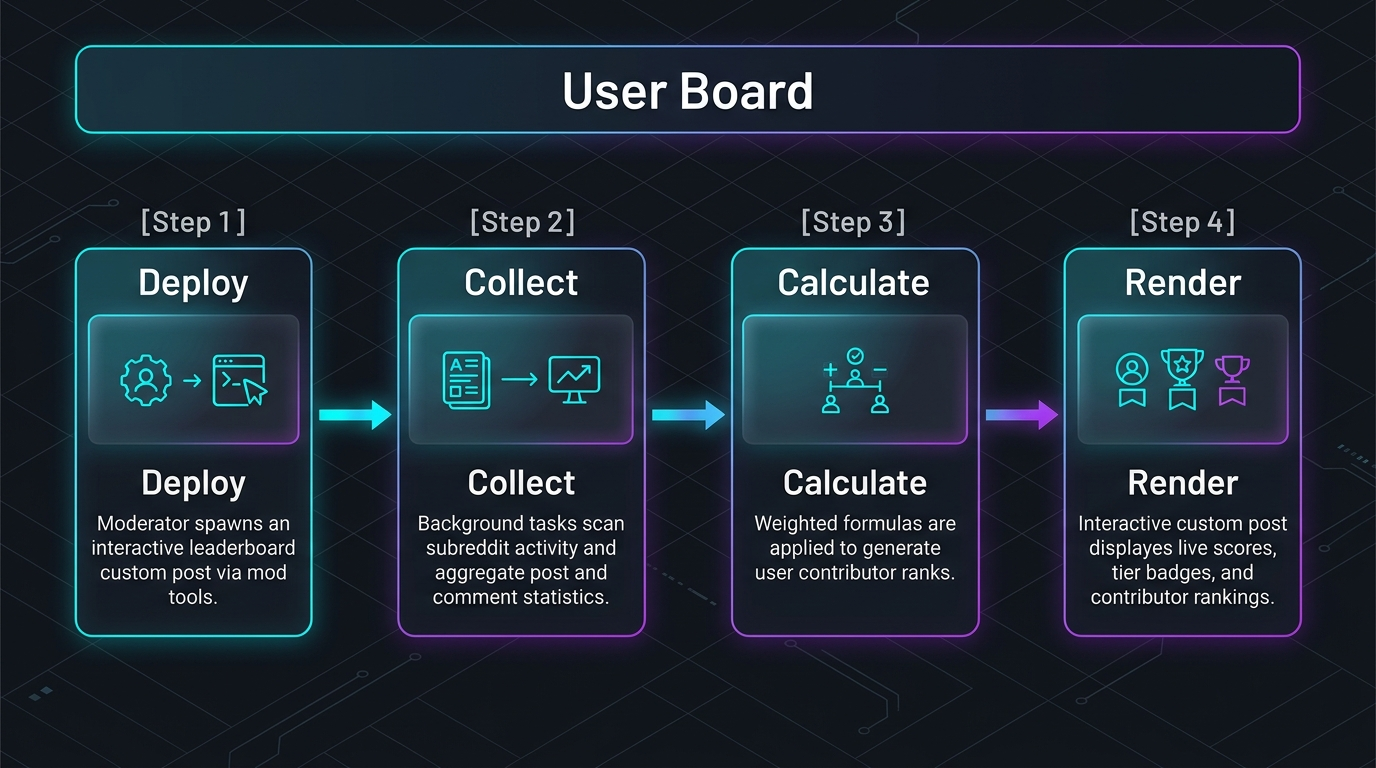
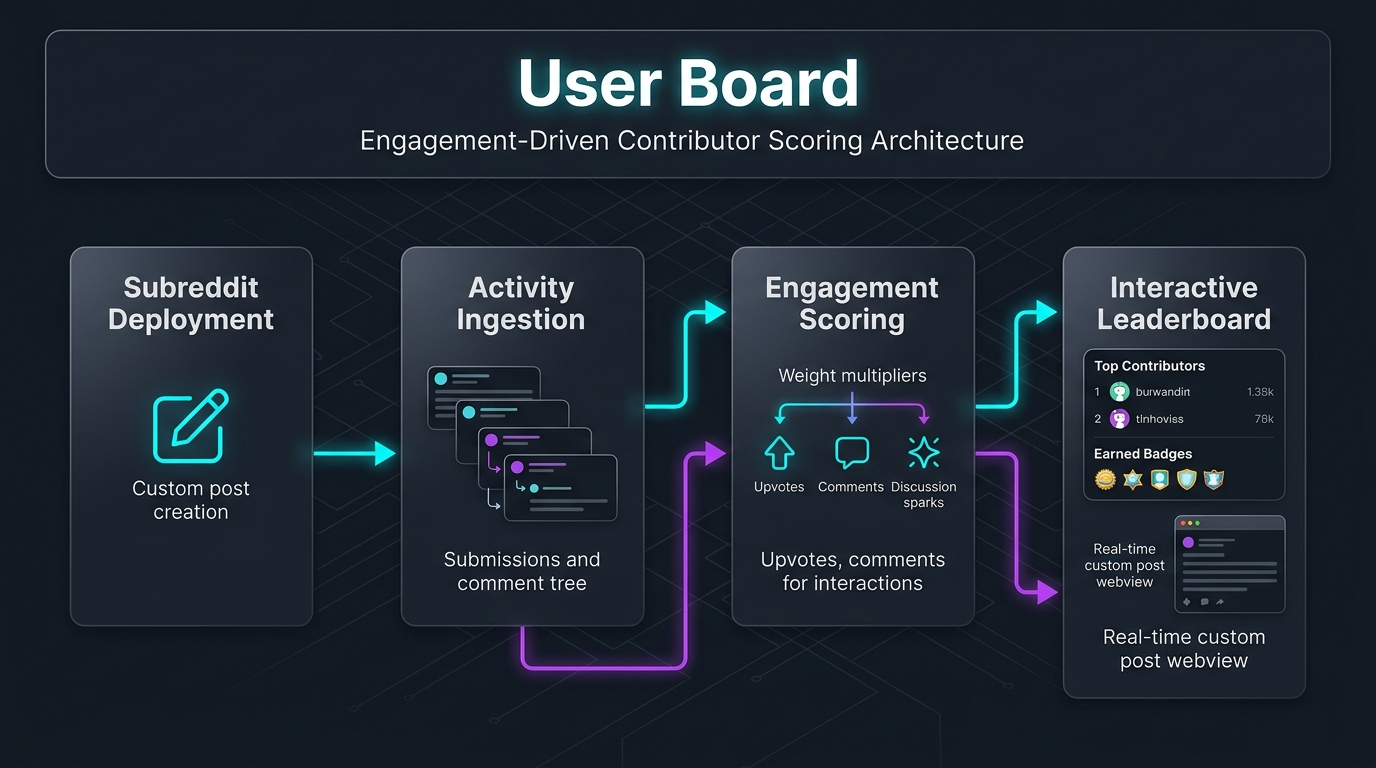
chore: update assets for user-board v0.0.44

Changed region(s): [[0.0312, 0.25, 0.9688, 0.9062], [0.0312, 0.0312, 0.9375, 0.2188], [0.9375, 0.0625, 0.9688, 0.1562]]

diff --git a/user-board/readme.html b/user-board/readme.html
@@ -1,14 +1,16 @@
 <blockquote><p><strong>User Guide &amp; Overview</strong> | <a href="https://www.reddit.com/r/grantdb/wiki/index/all-apps/user-board">View Deep Technical Reference &amp; Settings Spec</a></p></blockquote>
 <h1>User Board</h1>
-<blockquote><p><strong>Gamify community engagement and showcase your top contributors in a live leaderboard.</strong></p></blockquote>
-<p>User Board recognizes and rewards your most valuable community members. Calculating participation scores based on custom post and comment weights, it renders a visual, interactive leaderboard post directly inside your subreddit to drive constructive discussion.</p>
+<blockquote><p><strong>Gamify community engagement and showcase your top contributors in a live, quality-driven leaderboard.</strong></p></blockquote>
+<p>User Board recognizes and rewards your most valuable community members. Calculating participation scores based on community reception (post upvotes, comment upvotes, and discussion threads) rather than raw post volume, it renders a visual, interactive leaderboard post directly inside your subreddit to encourage constructive participation.</p>
 <p>---</p>
 <h2>At a Glance</h2>
 <ul>
 <li><strong>Interactive visual leaderboard</strong>: Display top community contributors in a rich, responsive custom post.</li>
-<li><strong>Customizable scoring weights</strong>: Balance points awarded for posts, comments, upvotes, and discussion engagement.</li>
+<li><strong>Engagement-first scoring</strong>: Rewards positive community reception (upvotes on posts & comments) and discussion depth rather than spammy post volume.</li>
+<li><strong>Full comment ingestion</strong>: Evaluates top commenters, comment upvote scores, and reply threads alongside post authors.</li>
+<li><strong>Customizable scoring weights</strong>: Fine-tune independent multipliers for post upvotes, comment upvotes, discussion sparked, and baseline counts.</li>
 <li><strong>Automated rank calculations</strong>: Scheduled background jobs keep rankings fresh without manual tallying.</li>
-<li><strong>Moderator customization console</strong>: Tune score formulas, tier cutoffs, and layout styles from the inline <strong>⚙ Settings</strong> console.</li>
+<li><strong>Moderator customization console</strong>: Tune score formulas, tier cutoffs, and timeframes from the inline <strong>⚙ Settings</strong> console.</li>
 <li><strong>Mobile-friendly custom post</strong>: Fast, client-side rendered experience that loads smoothly on all platforms.</li>
 </ul>
 <p>---</p>
@@ -16,7 +18,9 @@
 <p>---</p>
 <h2>Built for Vibrant Community Growth</h2>
 <ul>
-<li><strong>Nuanced Contribution Scoring</strong>: Configure independent point multipliers for submission upvotes, comment volume, and discussion activity.</li>
+<li><strong>Nuanced Engagement Scoring</strong>: Configure independent point multipliers for post upvotes (3x default), comment upvotes (2x default), comments on posts (2x default), and thread replies (1x default).</li>
+<li><strong>Quality-First Anti-Spam Design</strong>: Downvoted submissions receive zero upvote points, preventing spammers from gaming the board through volume alone.</li>
+<li><strong>Rich Contributor Badges</strong>: Classifies contributors into recognizable community roles (*Top Poster*, *Commenter*, *Engager*, *Consistent*, and *Rising Star*).</li>
 <li><strong>Interactive React Custom Post</strong>: Features rich leaderboard views with user rank badges, avatars, and historical score milestones.</li>
 <li><strong>Automated Rank Refreshes</strong>: Scheduled background workers re-calculate scores and update cached rankings automatically.</li>
 <li><strong>Zero-Friction Board Generation</strong>: Deploy your leaderboard post with one click using <strong>Create Subreddit User Board</strong> in Subreddit Mod Tools.</li>
@@ -28,9 +32,9 @@
 <p><a href="https://raw.githubusercontent.com/grantdb/reddit-app-legal/main/assets/flowcharts/user-board-flowchart.png">Logic Flowchart</a></p>
 <h3>Your Four-Step Workflow</h3>
 <p>1. <strong>Deploy</strong>: A moderator selects <strong>Create Subreddit User Board</strong> from Subreddit Mod Tools to spawn the interactive hub.</p>
-<p>2. <strong>Collect</strong>: Background tasks scan recent subreddit activity, aggregating post scores and comment counts.</p>
-<p>3. <strong>Calculate</strong>: The engine evaluates activity stats against your custom point weights to generate contributor ranks.</p>
-<p>4. <strong>Render</strong>: The pinned leaderboard post updates its interactive UI to display the latest top community members.</p>
+<p>2. <strong>Collect</strong>: Background tasks scan recent subreddit submissions and comment threads, indexing upvotes and reply depth.</p>
+<p>3. <strong>Calculate</strong>: The engine evaluates activity stats against your custom point weights to generate contributor ranks based on positive reception.</p>
+<p>4. <strong>Render</strong>: The pinned leaderboard post updates its interactive UI to display the latest top community contributors.</p>
 <p>---</p>
 <h2>Quick Setup</h2>
 <p>1. <strong>Install</strong>: Add <strong>User Board</strong> to your subreddit through the Reddit App Directory.</p>

diff --git a/user-board/wiki.html b/user-board/wiki.html
@@ -1,7 +1,7 @@
 <h1>User Board</h1>
 
 <p>Category: Utility<br>
-Version: v0.0.43<br>
+Version: v0.0.44<br>
 Visibility: Unlisted<br>
 Summary: Interactive subreddit contributor leaderboard and gamification dashboard.</p>
 
@@ -58,12 +58,12 @@ Summary: Interactive subreddit contributor leaderboard and gamification dashboar
 </ul>
 
 <h2>Version History</h2>
+<p>0.0.44 — 2026-10-02<br>
+Standard fleet synchronization and maintenance.</p>
+<p>0.0.44 — 2026-10-02<br>
+Feature: Completely overhauled scoring engine to reward positive community engagement and quality over raw post spam.; Feature: Added comment tree ingestion (`reddit.getComments`) to index commenters, comment upvote scores, and discussion thread depth (`repliesReceived`).; Feature: Rewrote scoring formula to reward post upvotes (3x), comment upvotes (2x), discussion spark (2x), and thread replies (1x) over baseline volume.; Feature: Added contributor classification badges: Top Poster, Commenter, Engager, Consistent, and Rising Star.; Feature: Expanded Moderator Console settings with granular Quality & Reception weights and quick "Defaults" restore.; UI: Added post count, comment count, and total upvotes received columns to the interactive leaderboard table.; Compatibility: Maintained full backward compatibility with legacy snapshots, fallback aliases, and default settings merging.</p>
 <p>0.0.43 — 2026-09-29<br>
 Standard fleet synchronization and maintenance.</p>
-<p>0.0.43 — 2026-09-28<br>
-Fix: Immediately recomputed active snapshot and cleared stale timeframe slice caches upon settings save so feed card reflects new timeframe window without delay.; Fix: Dynamically synchronized client active timeframe state and filter tab buttons with configured `timeframeDays`.; Fix: Resolved base snapshot fallback in `GET /api/board/snapshot` to serve matching timeframe dynamically instead of hardcoded 30-day assumption.</p>
-<p>0.0.42 — 2026-09-28<br>
-Fix: Fixed moderator verification check by querying `reddit.getModerators({ subredditName })` without unsupported username filtering parameter, eliminating empty moderator listing and false-negative rejection.; Fix: Replaced single-user negative cache locking with verified moderator list caching (`ub:mod_list_v2:${cleanSub}`).; Fix: Normalized username and subreddit string matching by stripping leading `u/` and `r/` prefixes.; Fix: Persisted settings under both `subredditId` and `subredditName` keys for unified lookup.</p>
 
 <h2>Links</h2>
 <ul>

diff --git a/user-board/README.md b/user-board/README.md
@@ -2,18 +2,20 @@
 
 # User Board
 
-> **Gamify community engagement and showcase your top contributors in a live leaderboard.**
+> **Gamify community engagement and showcase your top contributors in a live, quality-driven leaderboard.**
 
-User Board recognizes and rewards your most valuable community members. Calculating participation scores based on custom post and comment weights, it renders a visual, interactive leaderboard post directly inside your subreddit to drive constructive discussion.
+User Board recognizes and rewards your most valuable community members. Calculating participation scores based on community reception (post upvotes, comment upvotes, and discussion threads) rather than raw post volume, it renders a visual, interactive leaderboard post directly inside your subreddit to encourage constructive participation.
 
 ---
 
 ## At a Glance
 
 - **Interactive visual leaderboard**: Display top community contributors in a rich, responsive custom post.
-- **Customizable scoring weights**: Balance points awarded for posts, comments, upvotes, and discussion engagement.
+- **Engagement-first scoring**: Rewards positive community reception (upvotes on posts & comments) and discussion depth rather than spammy post volume.
+- **Full comment ingestion**: Evaluates top commenters, comment upvote scores, and reply threads alongside post authors.
+- **Customizable scoring weights**: Fine-tune independent multipliers for post upvotes, comment upvotes, discussion sparked, and baseline counts.
 - **Automated rank calculations**: Scheduled background jobs keep rankings fresh without manual tallying.
-- **Moderator customization console**: Tune score formulas, tier cutoffs, and layout styles from the inline **⚙ Settings** console.
+- **Moderator customization console**: Tune score formulas, tier cutoffs, and timeframes from the inline **⚙ Settings** console.
 - **Mobile-friendly custom post**: Fast, client-side rendered experience that loads smoothly on all platforms.
 
 ---
@@ -22,17 +24,19 @@ User Board recognizes and rewards your most valuable community members. Calculat
 
 | Traditional Workflow | With User Board |
 | :--- | :--- |
+| Reward-for-volume systems that encourage spammers to flood subreddits with bad posts | **Quality & reception weighting** rewarding contributors whose content community members actually like |
+| Ignoring community members who contribute primarily through thoughtful comments | **Unified contributor tracking** analyzing post authors and commenters equally |
 | Manually tracking and tallying top monthly posters in spreadsheets | **Automated background ranking** refreshing contributor scores on schedule |
-| Generic karma counts that don't reflect true community helpfulness | **Custom weighted formula** valuing comments and discussion quality |
-| Static text posts listing usernames that quickly go out of date | **Live interactive custom post** displaying dynamic ranks and badges |
-| Forgetting to run monthly contributor reward posts | **Always-on leaderboard hub** pinned directly to your subreddit feed |
-| No way for community members to track their standing | **Engaging visual scoreboard** motivating constructive participation |
+| Generic karma counts that don't reflect true community helpfulness | **Custom weighted formula** valuing discussion spark, comments, and consistency |
+| Static text posts listing usernames that quickly go out of date | **Live interactive custom post** displaying dynamic ranks, types, and tier badges |
 
 ---
 
 ## Built for Vibrant Community Growth
 
-- **Nuanced Contribution Scoring**: Configure independent point multipliers for submission upvotes, comment volume, and discussion activity.
+- **Nuanced Engagement Scoring**: Configure independent point multipliers for post upvotes (3x default), comment upvotes (2x default), comments on posts (2x default), and thread replies (1x default).
+- **Quality-First Anti-Spam Design**: Downvoted submissions receive zero upvote points, preventing spammers from gaming the board through volume alone.
+- **Rich Contributor Badges**: Classifies contributors into recognizable community roles (*Top Poster*, *Commenter*, *Engager*, *Consistent*, and *Rising Star*).
 - **Interactive React Custom Post**: Features rich leaderboard views with user rank badges, avatars, and historical score milestones.
 - **Automated Rank Refreshes**: Scheduled background workers re-calculate scores and update cached rankings automatically.
 - **Zero-Friction Board Generation**: Deploy your leaderboard post with one click using **Create Subreddit User Board** in Subreddit Mod Tools.
@@ -48,9 +52,9 @@ User Board recognizes and rewards your most valuable community members. Calculat
 ### Your Four-Step Workflow
 
 1. **Deploy**: A moderator selects **Create Subreddit User Board** from Subreddit Mod Tools to spawn the interactive hub.
-2. **Collect**: Background tasks scan recent subreddit activity, aggregating post scores and comment counts.
-3. **Calculate**: The engine evaluates activity stats against your custom point weights to generate contributor ranks.
-4. **Render**: The pinned leaderboard post updates its interactive UI to display the latest top community members.
+2. **Collect**: Background tasks scan recent subreddit submissions and comment threads, indexing upvotes and reply depth.
+3. **Calculate**: The engine evaluates activity stats against your custom point weights to generate contributor ranks based on positive reception.
+4. **Render**: The pinned leaderboard post updates its interactive UI to display the latest top community contributors.
 
 ---
 

diff --git a/user-board/wiki.md b/user-board/wiki.md
@@ -1,7 +1,7 @@
 # User Board
 
 Category: Utility  
-Version: v0.0.43  
+Version: v0.0.44  
 Visibility: Unlisted  
 Summary: Interactive subreddit contributor leaderboard and gamification dashboard.
 
@@ -56,19 +56,20 @@ This app utilizes Reddit Redis storage for state management, caching, and rate l
 - Ensure all required app settings and API keys are properly configured in Mod Tools.
 
 ## Version History
-0.0.43 — 2026-09-29
+0.0.44 — 2026-10-02
 - Standard fleet synchronization and maintenance.
 
-0.0.43 — 2026-09-28
-- Fix: Immediately recomputed active snapshot and cleared stale timeframe slice caches upon settings save so feed card reflects new timeframe window without delay.
-- Fix: Dynamically synchronized client active timeframe state and filter tab buttons with configured `timeframeDays`.
-- Fix: Resolved base snapshot fallback in `GET /api/board/snapshot` to serve matching timeframe dynamically instead of hardcoded 30-day assumption.
+0.0.44 — 2026-10-02
+- Feature: Completely overhauled scoring engine to reward positive community engagement and quality over raw post spam.
+- Feature: Added comment tree ingestion (`reddit.getComments`) to index commenters, comment upvote scores, and discussion thread depth (`repliesReceived`).
+- Feature: Rewrote scoring formula to reward post upvotes (3x), comment upvotes (2x), discussion spark (2x), and thread replies (1x) over baseline volume.
+- Feature: Added contributor classification badges: Top Poster, Commenter, Engager, Consistent, and Rising Star.
+- Feature: Expanded Moderator Console settings with granular Quality & Reception weights and quick "Defaults" restore.
+- UI: Added post count, comment count, and total upvotes received columns to the interactive leaderboard table.
+- Compatibility: Maintained full backward compatibility with legacy snapshots, fallback aliases, and default settings merging.
 
-0.0.42 — 2026-09-28
-- Fix: Fixed moderator verification check by querying `reddit.getModerators({ subredditName })` without unsupported username filtering parameter, eliminating empty moderator listing and false-negative rejection.
-- Fix: Replaced single-user negative cache locking with verified moderator list caching (`ub:mod_list_v2:${cleanSub}`).
-- Fix: Normalized username and subreddit string matching by stripping leading `u/` and `r/` prefixes.
-- Fix: Persisted settings under both `subredditId` and `subredditName` keys for unified lookup.
+0.0.43 — 2026-09-29
+- Standard fleet synchronization and maintenance.
 
 ## Links
 - [Terms of Service](https://github.com/grantdb/reddit-app-legal/blob/main/user-board/TERMS.md)
